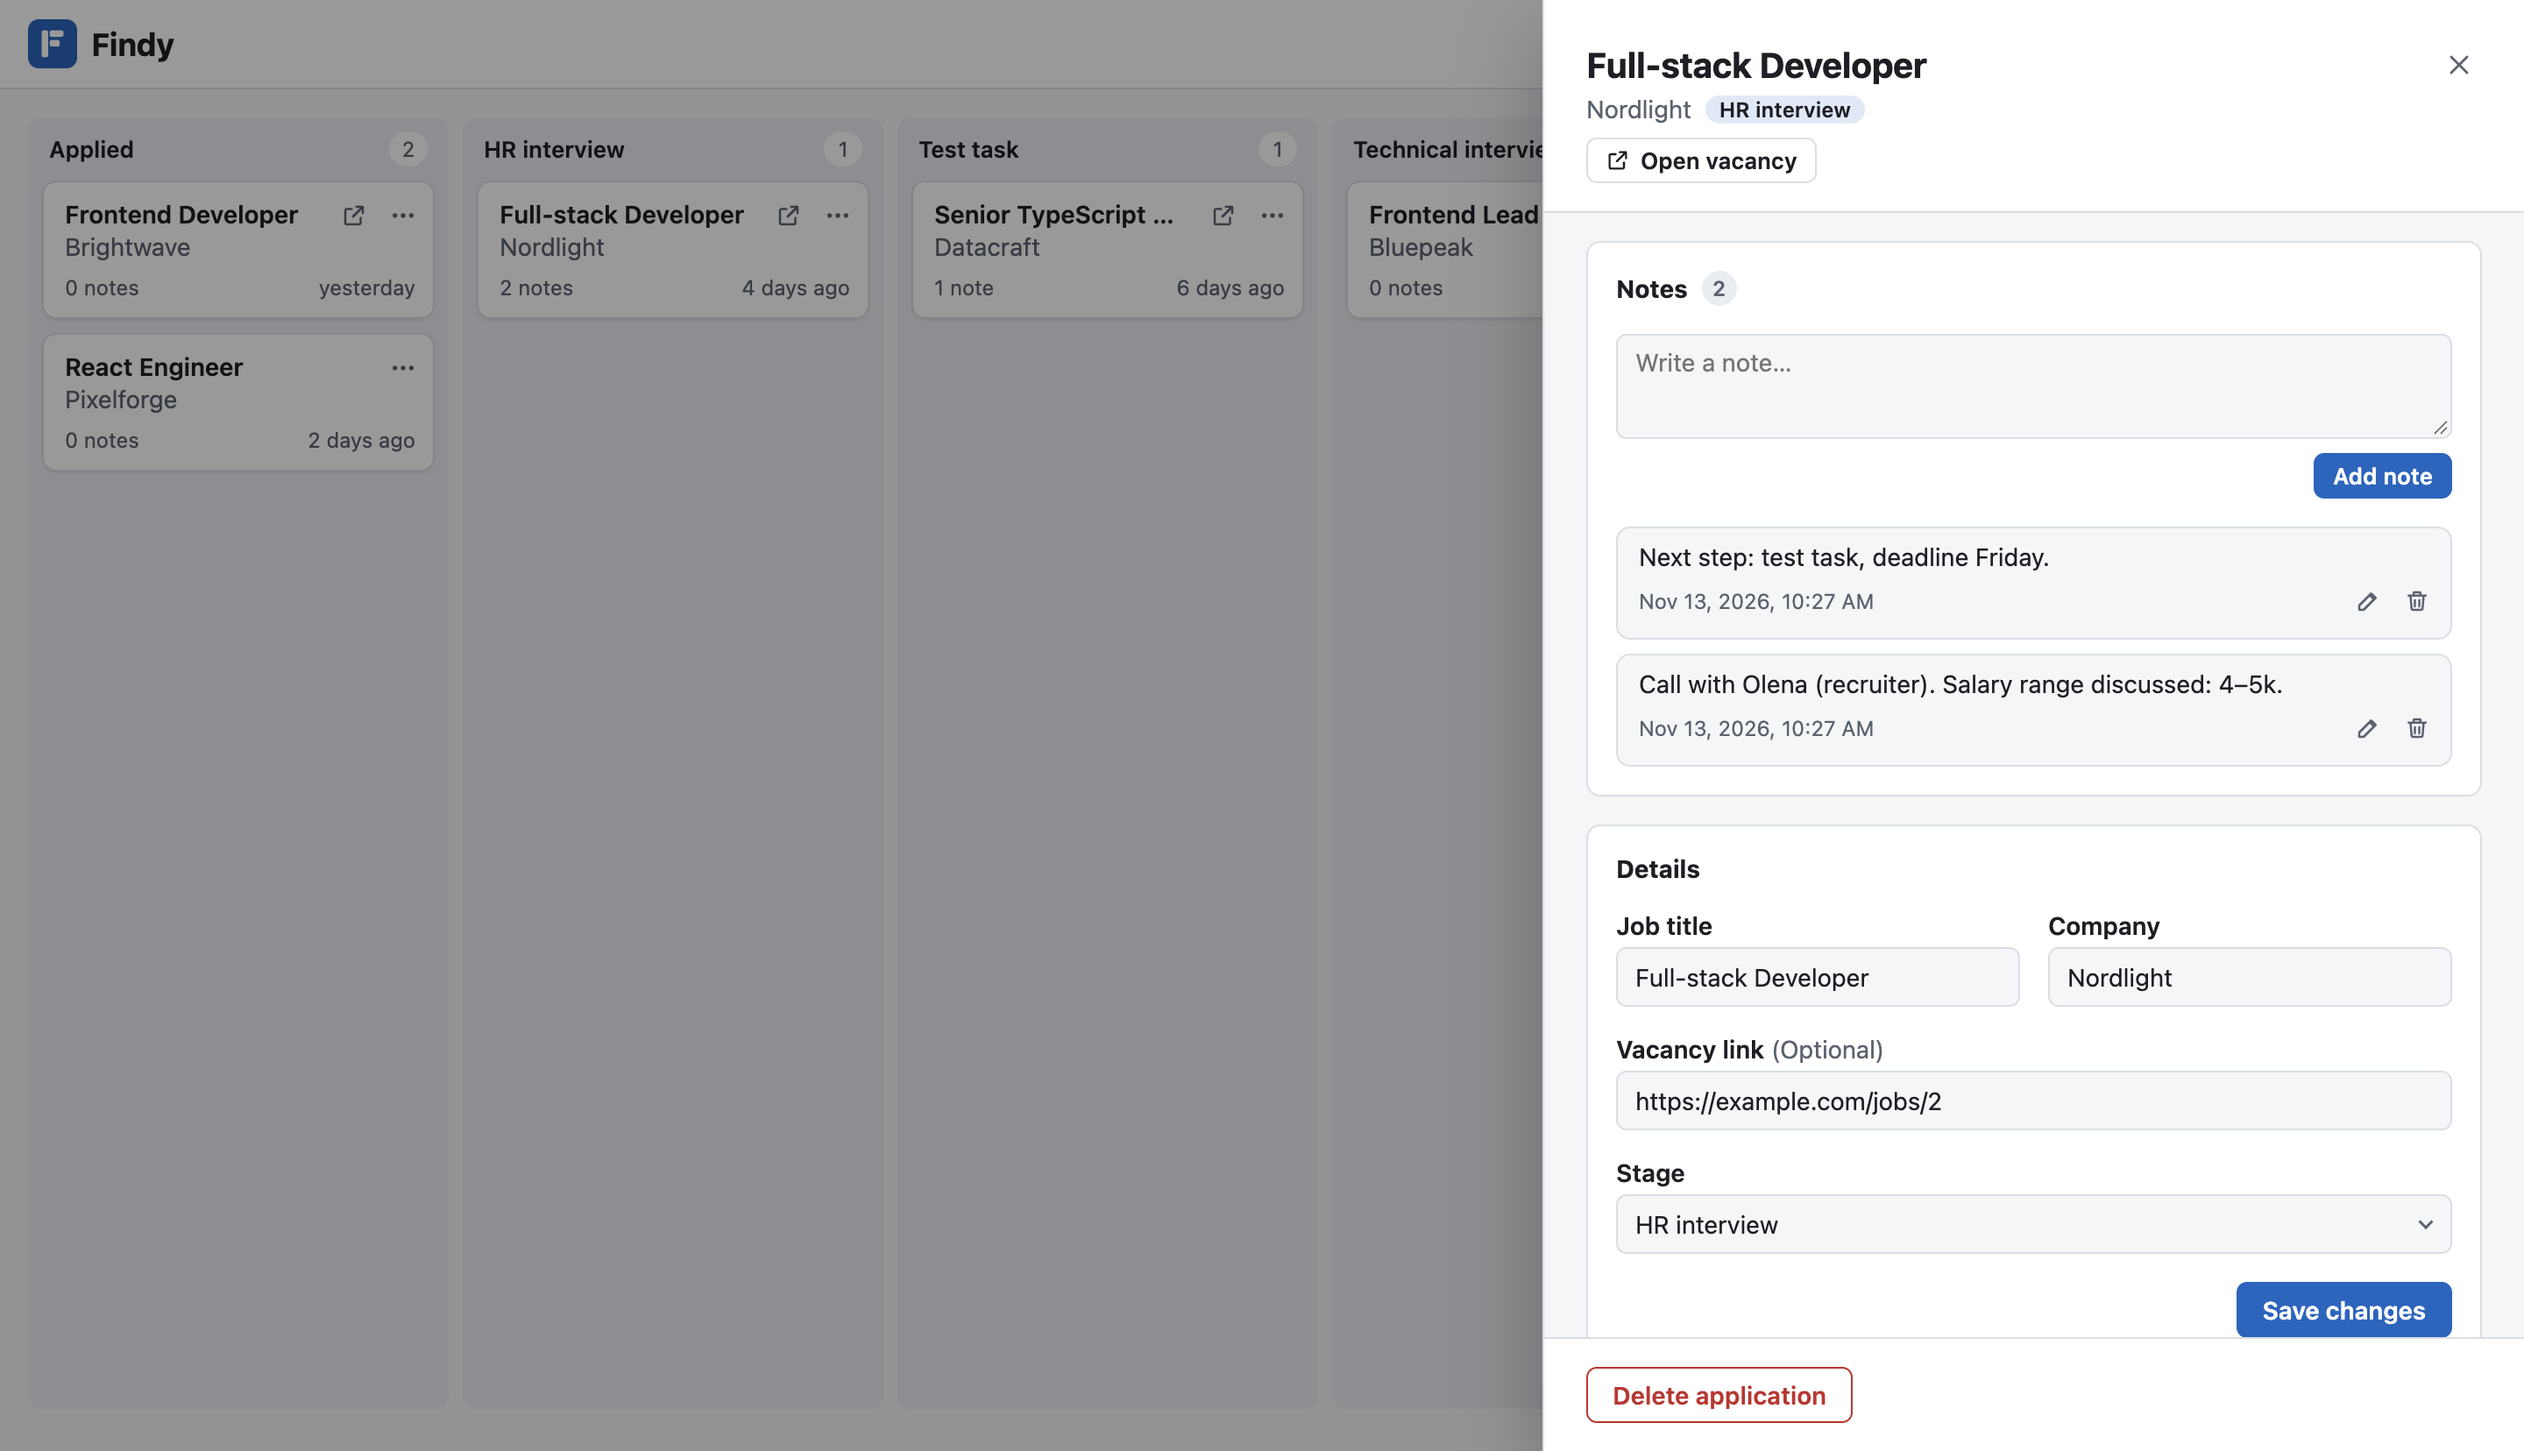
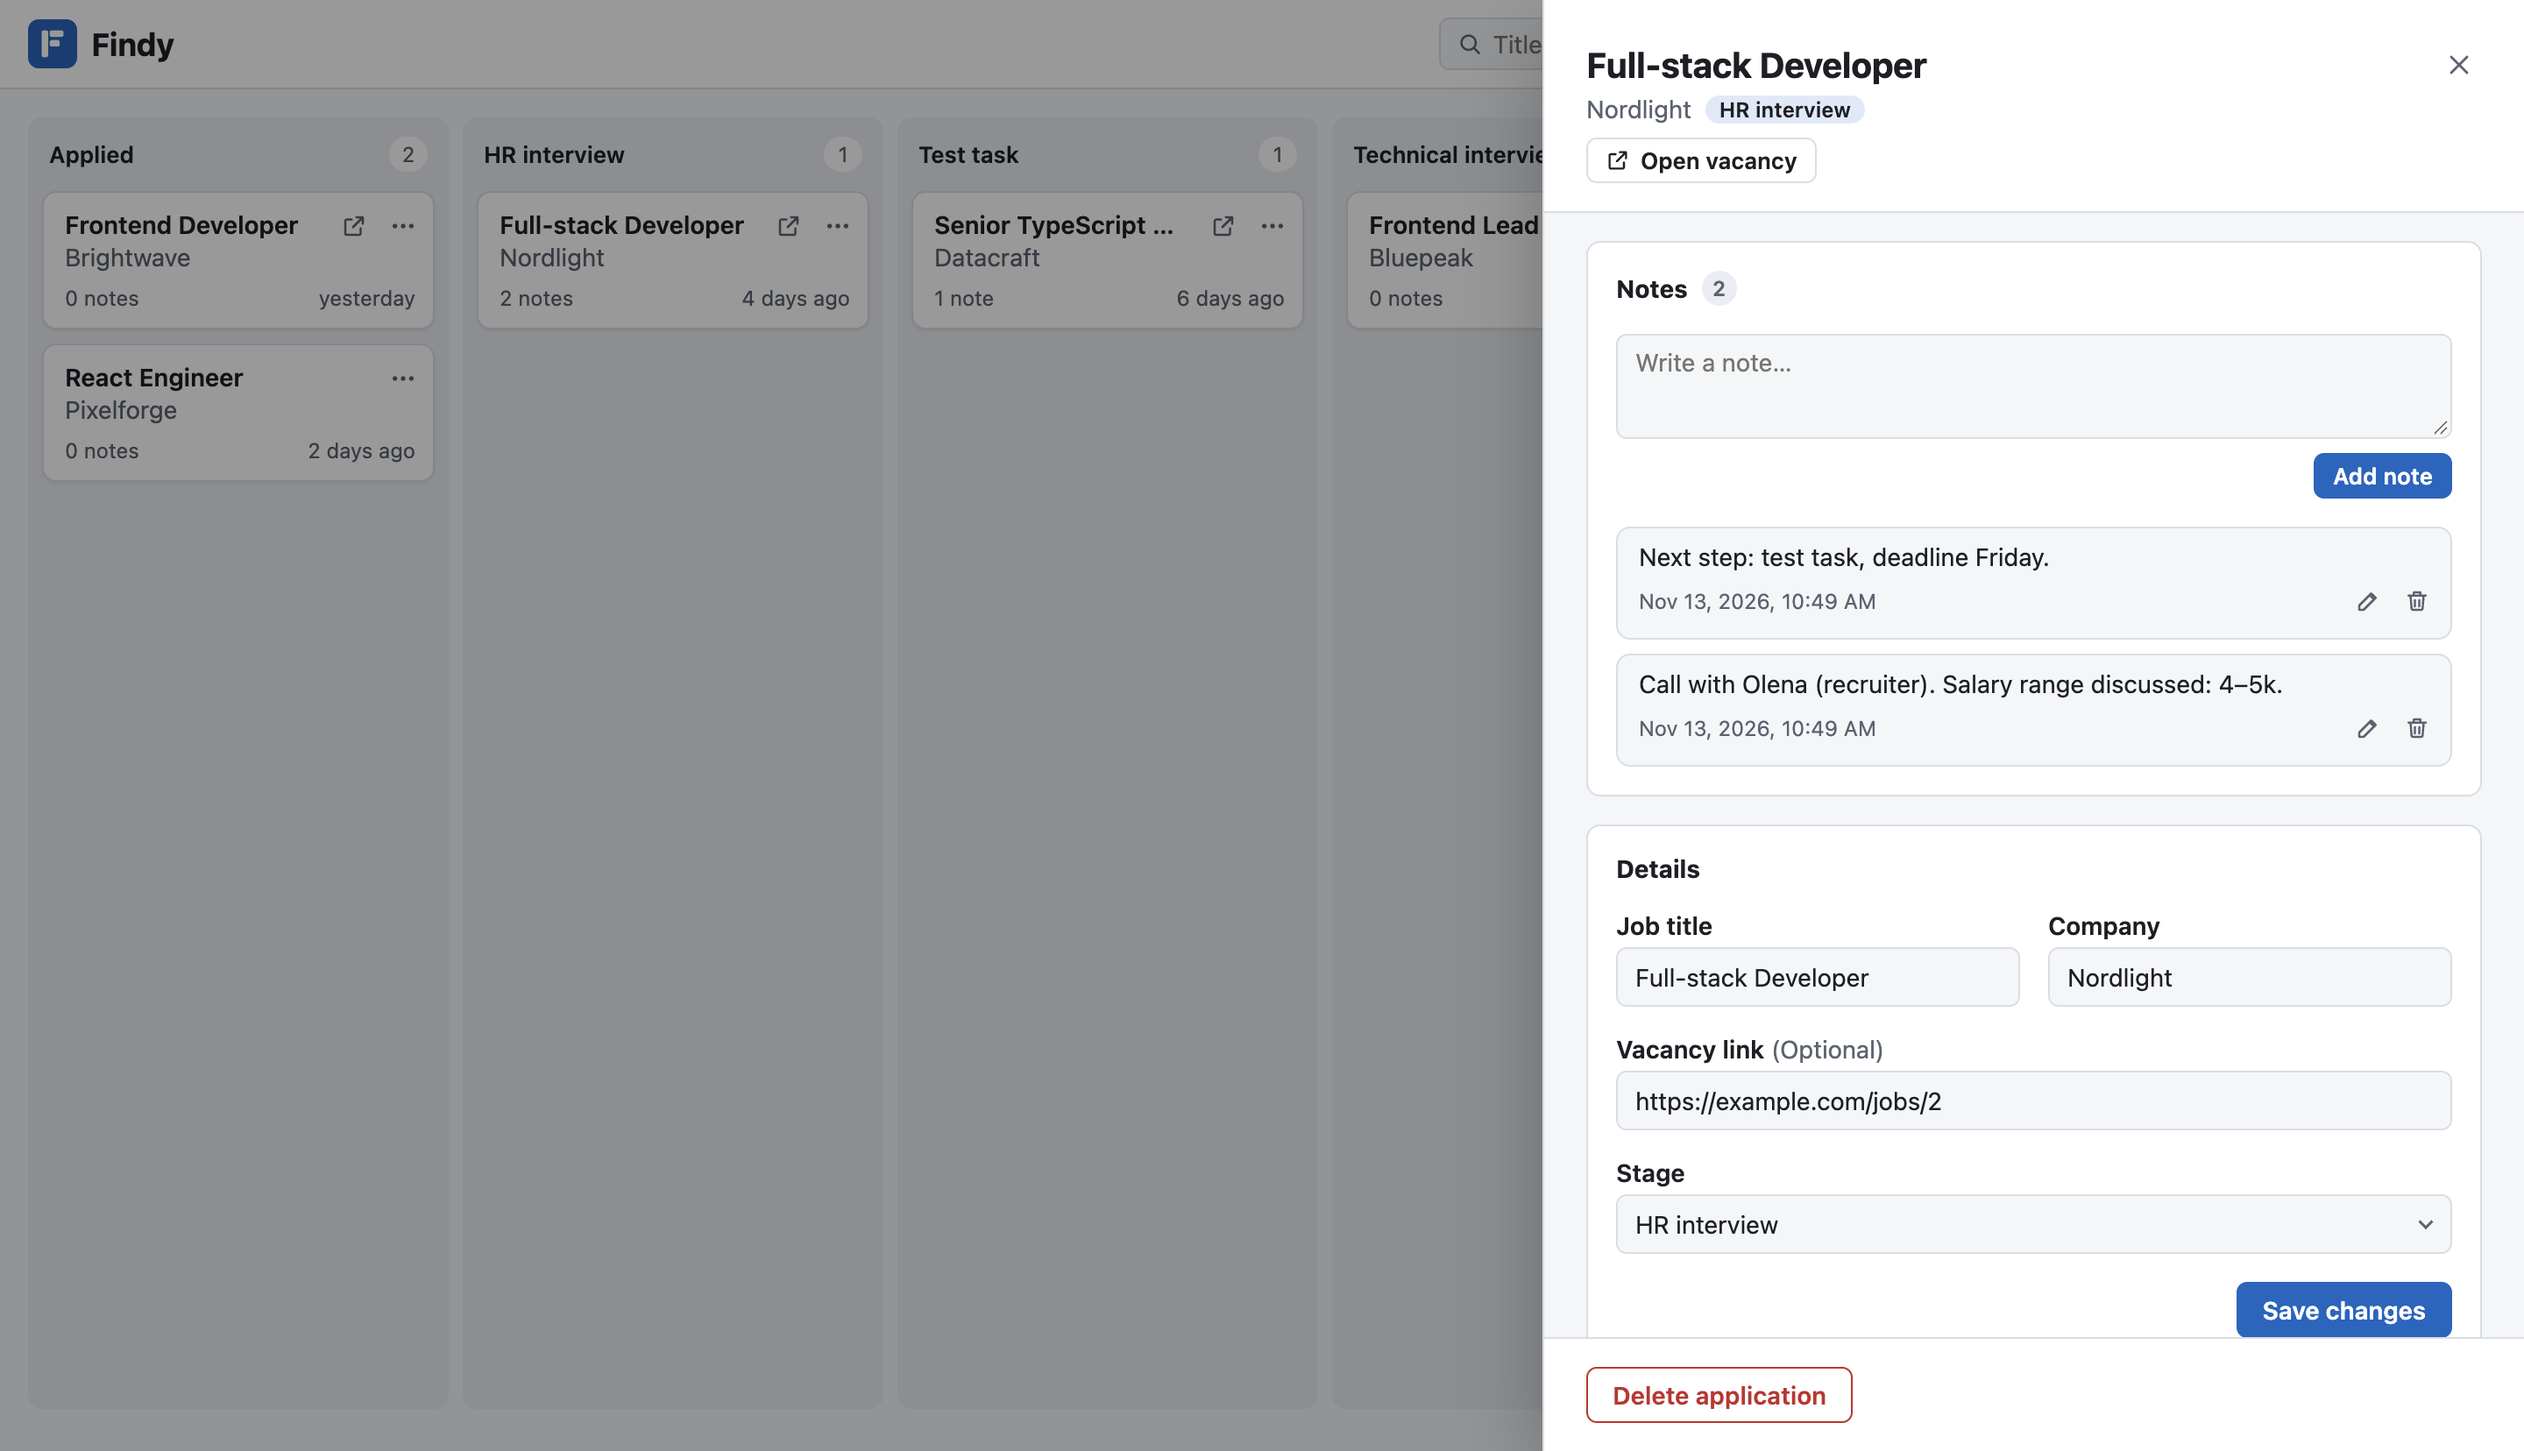
docs: refresh README screenshots; keep the generator (npm run screenshots)

diff --git a/e2e/self-tests/readme-screenshots.test.ts b/e2e/self-tests/readme-screenshots.test.ts
@@ -1,0 +1,156 @@
+import { join } from 'node:path'
+import Database from 'better-sqlite3'
+import { test } from '../fixtures/app'
+
+// Regenerates docs/screenshots/*.png for the READMEs: `npm run screenshots`.
+// Skipped in normal test runs.
+test.skip(!process.env.UPDATE_SCREENSHOTS, 'run with `npm run screenshots`')
+
+const OUT = join(process.cwd(), 'docs', 'screenshots')
+const DAY = 86_400_000
+
+type Demo = {
+  title: string
+  company: string
+  stage: string
+  days: number
+  url?: string
+  notes?: string[]
+}
+
+const DATA: Record<'en' | 'uk', Demo[]> = {
+  en: [
+    {
+      title: 'Frontend Developer',
+      company: 'Brightwave',
+      stage: 'applied',
+      days: 1,
+      url: 'https://example.com/jobs/1',
+    },
+    { title: 'React Engineer', company: 'Pixelforge', stage: 'applied', days: 2 },
+    {
+      title: 'Full-stack Developer',
+      company: 'Nordlight',
+      stage: 'hr_interview',
+      days: 4,
+      url: 'https://example.com/jobs/2',
+      notes: [
+        'Call with Olena (recruiter). Salary range discussed: 4–5k.',
+        'Next step: test task, deadline Friday.',
+      ],
+    },
+    {
+      title: 'Senior TypeScript Developer',
+      company: 'Datacraft',
+      stage: 'test_task',
+      days: 6,
+      url: 'https://example.com/jobs/3',
+      notes: ['Take-home: small kanban app, 3 days.'],
+    },
+    { title: 'Frontend Lead', company: 'Bluepeak', stage: 'technical_interview', days: 9 },
+    {
+      title: 'Software Engineer',
+      company: 'Cloudnest',
+      stage: 'c_level_interview',
+      days: 12,
+      notes: ['Talk with the CTO about the team and roadmap.'],
+    },
+    {
+      title: 'UI Engineer',
+      company: 'Greenfield',
+      stage: 'offered',
+      days: 15,
+      url: 'https://example.com/jobs/4',
+    },
+    { title: 'JavaScript Developer', company: 'Quanta Labs', stage: 'rejected', days: 20 },
+  ],
+  uk: [
+    {
+      title: 'Frontend-розробник',
+      company: 'Brightwave',
+      stage: 'applied',
+      days: 1,
+      url: 'https://example.com/jobs/1',
+    },
+    { title: 'React-інженер', company: 'Pixelforge', stage: 'applied', days: 2 },
+    {
+      title: 'Full-stack розробник',
+      company: 'Nordlight',
+      stage: 'hr_interview',
+      days: 4,
+      url: 'https://example.com/jobs/2',
+      notes: [
+        'Дзвінок з Оленою (рекрутерка). Обговорили зарплату: 4–5k.',
+        'Наступний крок: тестове завдання до пʼятниці.',
+      ],
+    },
+    {
+      title: 'Senior TypeScript-розробник',
+      company: 'Datacraft',
+      stage: 'test_task',
+      days: 6,
+      url: 'https://example.com/jobs/3',
+      notes: ['Тестове: маленький канбан-застосунок, 3 дні.'],
+    },
+    { title: 'Frontend Lead', company: 'Bluepeak', stage: 'technical_interview', days: 9 },
+    {
+      title: 'Software Engineer',
+      company: 'Cloudnest',
+      stage: 'c_level_interview',
+      days: 12,
+      notes: ['Розмова з CTO про команду й плани.'],
+    },
+    {
+      title: 'UI-інженер',
+      company: 'Greenfield',
+      stage: 'offered',
+      days: 15,
+      url: 'https://example.com/jobs/4',
+    },
+    { title: 'JavaScript-розробник', company: 'Quanta Labs', stage: 'rejected', days: 20 },
+  ],
+}
+
+for (const lang of ['en', 'uk'] as const) {
+  test(`README screenshots (${lang})`, async ({ findy, page, electronApp, userDataDir }) => {
+    await electronApp.evaluate(({ BrowserWindow }) =>
+      BrowserWindow.getAllWindows()[0]!.setSize(1440, 860),
+    )
+    await findy.api.setTheme('light')
+    await findy.api.setLanguage(lang)
+    await findy.api.seed(
+      DATA[lang].map(({ title, company, stage, url }) => ({
+        title,
+        company,
+        stage: stage as never,
+        url: url ?? null,
+      })),
+    )
+    for (const item of DATA[lang])
+      for (const note of item.notes ?? []) await findy.api.addNote(item.title, note)
+
+    // Back-date the history, so cards show "4 days ago" and not "this minute"
+    const db = new Database(join(userDataDir, 'findy.db'))
+    for (const item of DATA[lang]) {
+      const { id } = db.prepare('SELECT id FROM applications WHERE title = ?').get(item.title) as {
+        id: string
+      }
+      const entered = new Date(Date.now() - item.days * DAY).toISOString()
+      const created = new Date(Date.now() - (item.days + 2) * DAY).toISOString()
+      db.prepare('UPDATE applications SET created_at = ?, updated_at = ? WHERE id = ?').run(
+        created,
+        entered,
+        id,
+      )
+      db.prepare('UPDATE stage_changes SET at = ? WHERE application_id = ?').run(entered, id)
+      db.prepare('UPDATE notes SET created_at = ? WHERE application_id = ?').run(entered, id)
+    }
+    db.close()
+    await findy.refresh()
+
+    await page.screenshot({ path: join(OUT, `board-${lang}.png`) })
+    await page.getByRole('button', { name: new RegExp(`^${DATA[lang][2]!.title}`) }).click()
+    await page.getByTestId('details').waitFor()
+    await page.screenshot({ path: join(OUT, `details-${lang}.png`) })
+  })
+}

diff --git a/CONTRIBUTING.md b/CONTRIBUTING.md
@@ -44,6 +44,15 @@ npm run test:coverage   # fails below 80 % coverage
 npm run test:e2e
 ```
 
+### README screenshots
+
+If a PR changes how the board or the details panel look, regenerate the README
+screenshots (macOS or Linux; demo data, light theme, en and uk):
+
+```bash
+npm run screenshots   # writes docs/screenshots/*.png
+```
+
 ## Branches, commits, PRs
 
 - Branch: `NNN-feature-name` for features, `fix/short-description` for fixes.
